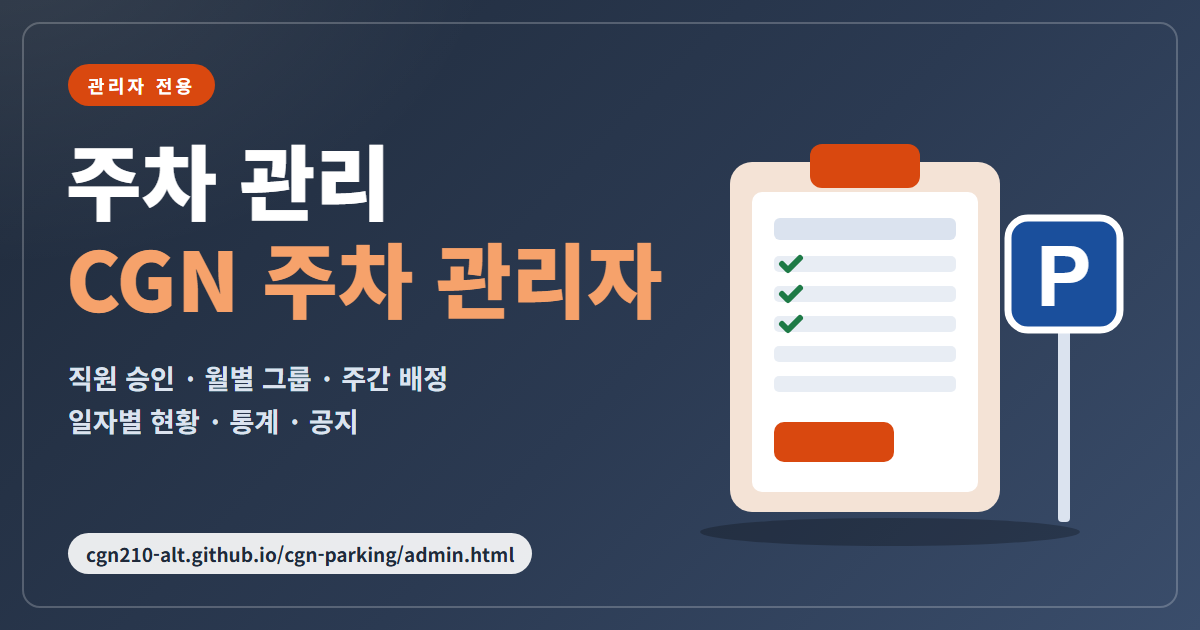
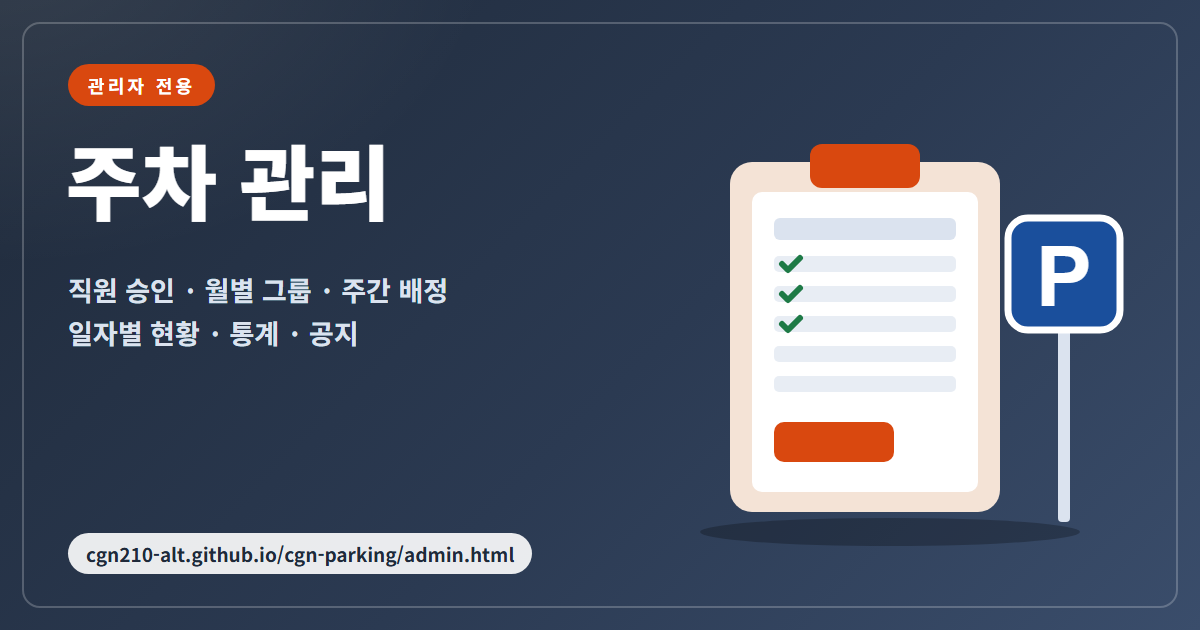
관리자 썸네일 중복 제목(CGN 주차 관리자) 삭제

Changed region(s): [[0.0617, 0.3619, 0.555, 0.6937]]

diff --git a/parking-admin-og-source.html b/parking-admin-og-source.html
@@ -23,7 +23,7 @@
   }
   .title { position:absolute; top:130px; left:66px; font-size:82px; font-weight:900; line-height:1.2; color:#fff; }
   .title .l2 { color:#f6a26b; }
-  .subtitle { position:absolute; top:356px; left:68px; font-size:27px; font-weight:700; color:#dbe3ef; line-height:1.6; }
+  .subtitle { position:absolute; top:268px; left:68px; font-size:27px; font-weight:700; color:#dbe3ef; line-height:1.6; }
   .footer-tag {
     position:absolute; bottom:56px; left:68px;
     font-size:19px; font-weight:700; color:#1f2a3a;
@@ -38,7 +38,6 @@
 <div class="pill">관리자 전용</div>
 <div class="title">
   <div>주차 관리</div>
-  <div class="l2">CGN 주차 관리자</div>
 </div>
 <div class="subtitle">직원 승인 · 월별 그룹 · 주간 배정<br>일자별 현황 · 통계 · 공지</div>
 <div class="footer-tag">cgn210-alt.github.io/cgn-parking/admin.html</div>

diff --git a/admin.html b/admin.html
@@ -9,7 +9,7 @@
   <meta property="og:description" content="관리자 전용 · 직원 승인, 월별 그룹, 주간 배정, 일자별 현황, 통계, 공지" />
   <meta property="og:type" content="website" />
   <meta property="og:url" content="https://cgn210-alt.github.io/cgn-parking/admin.html" />
-  <meta property="og:image" content="https://cgn210-alt.github.io/cgn-parking/parking-admin-og.png?v=1" />
+  <meta property="og:image" content="https://cgn210-alt.github.io/cgn-parking/parking-admin-og.png?v=2" />
   <meta property="og:image:width" content="1200" />
   <meta property="og:image:height" content="630" />
   <meta name="twitter:card" content="summary_large_image" />
